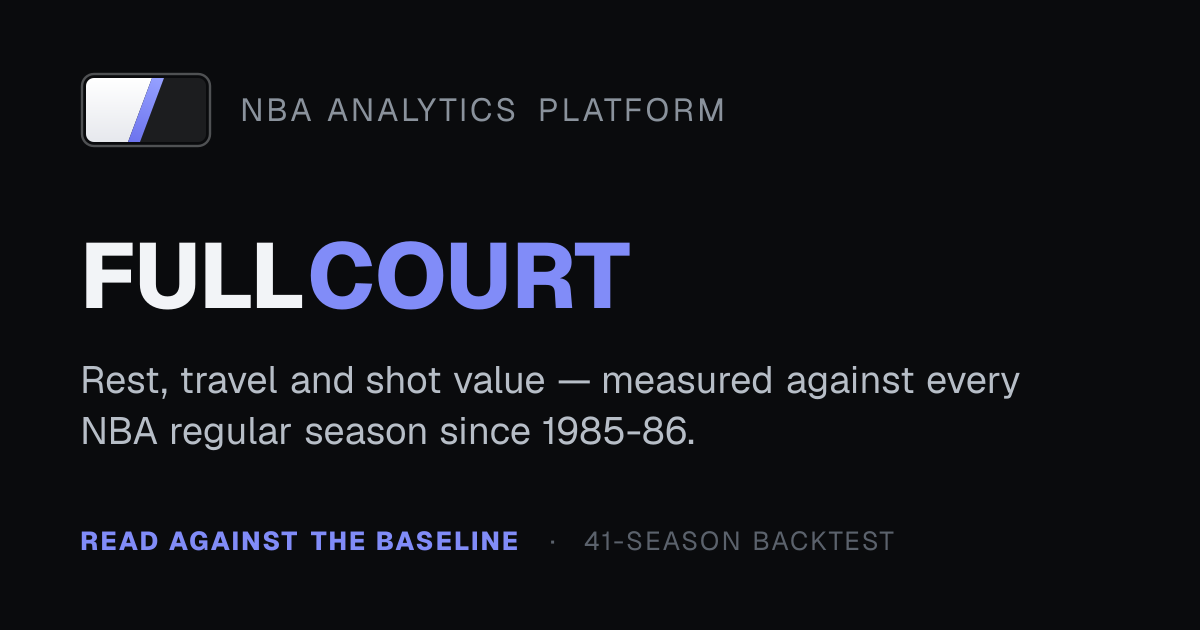
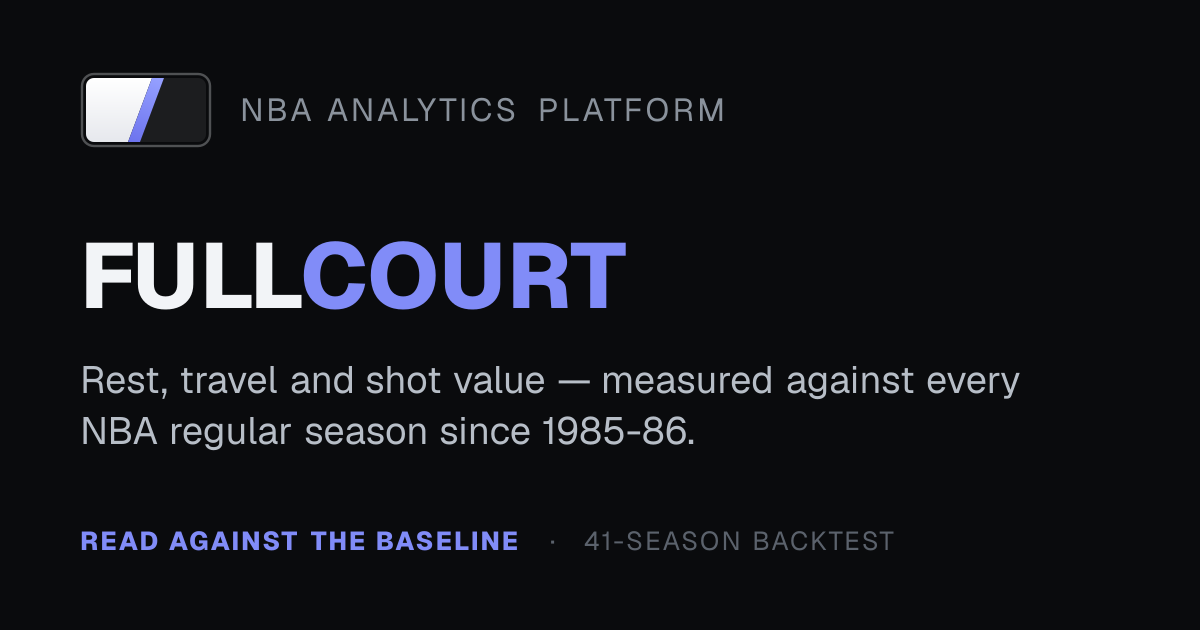
feat: the wordmark is optically kerned from one table, all three lockups (#64)
Measured in Geist 700 with the font's own GPOS kerns applied, the FULLCOURT
lockup's inter-letter ink area spread 2.7:1 — and the widest gap was L·C,
exactly the FULL|COURT color seam, so the compound read as two words
touching. Michael adopted the bench's Recommended preset (2026-08-22
exploration): FU −0.035, UL +0.020, LL −0.040, LC −0.045, CO −0.010,
OU +0.015, UR +0.020, RT −0.010 em → spread 2.1:1, width −1.5%, no pair
under the 0.02 em ink floor. C·O is deliberately shy of its ideal: the
variable Geist at 700 has longer C terminals than the static 800 TTF.

src/lib/brand/wordmark-kern.ts is the one table — the same one-source rule
as court-mark-geometry.ts — consumed by the nav wordmark, the front door's
naming h2, and the OG card as per-letter margins on top of each site's base
tracking. wordmark-kern.test.ts pins the preset and fails any renderer that
types the word as a literal again. docs/social-preview.png re-rendered from
the new OG route, RGBA→RGB flatten kept.

Satori may not apply Geist's own GPOS kerns like a browser — the deployed
OG card gets one manual eyeball after this ships (local render verified).

Changed region(s): [[0.2467, 0.3619, 0.5242, 0.4825], [0.1233, 0.3921, 0.185, 0.4825]]

diff --git a/src/lib/brand/__tests__/wordmark-kern.test.ts b/src/lib/brand/__tests__/wordmark-kern.test.ts
@@ -1,0 +1,64 @@
+import { readFileSync } from "node:fs";
+import { join } from "node:path";
+
+import { describe, expect, it } from "vitest";
+
+import { WORDMARK, WORDMARK_KERN, WORDMARK_SPLIT, wordmarkLetters } from "../wordmark-kern";
+
+describe("the kern table itself", () => {
+  it("spells FULLCOURT, split at the color seam", () => {
+    const letters = wordmarkLetters();
+    expect(letters.map((l) => l.char).join("")).toBe("FULLCOURT");
+    expect(letters.filter((l) => !l.accent).map((l) => l.char).join("")).toBe("FULL");
+    expect(letters.filter((l) => l.accent).map((l) => l.char).join("")).toBe("COURT");
+    expect(WORDMARK_SPLIT).toBe(4);
+  });
+
+  it("keys every pair to its actual neighbours, in word order", () => {
+    // A reordered or mistyped entry would silently kern the wrong seam.
+    expect(WORDMARK_KERN).toHaveLength(WORDMARK.length - 1);
+    WORDMARK_KERN.forEach((k, i) => {
+      expect(k.pair, `entry ${i}`).toBe(WORDMARK.slice(i, i + 2));
+    });
+  });
+
+  it("pins the ratified 2026-08-24 preset", () => {
+    // Hand-tuned against measured ink areas (2.7:1 spread → 2.1:1); a change here is a
+    // brand decision, not a refactor. C·O is deliberately −0.010, not tighter — the
+    // variable Geist at 700 has longer C terminals than the static 800 TTF, and −0.020
+    // drops the true ink clearance to 0.0135 em.
+    expect(WORDMARK_KERN.map((k) => k.em)).toEqual([
+      -0.035, 0.02, -0.04, -0.045, -0.01, 0.015, 0.02, -0.01,
+    ]);
+  });
+
+  it("gives the F no kern and every later letter its preceding pair's", () => {
+    const letters = wordmarkLetters();
+    expect(letters[0].kernEm).toBe(0);
+    letters.slice(1).forEach((l, i) => expect(l.kernEm).toBe(WORDMARK_KERN[i].em));
+  });
+});
+
+describe("every renderer consumes the one table", () => {
+  // The three lockups drifted apart once before the mark got a single geometry source;
+  // the wordmark gets the same treatment. A renderer that types the word as a literal
+  // has stopped reading the kerns — these fail before the drift ships.
+  const renderers = [
+    "src/components/nav-bar.tsx",
+    "src/components/about-content.tsx",
+    "src/app/opengraph-image.tsx",
+  ];
+
+  for (const file of renderers) {
+    it(`${file} imports the table and hardcodes no lockup text`, () => {
+      const src = readFileSync(join(process.cwd(), file), "utf8");
+      expect(src).toContain('from "@/lib/brand/wordmark-kern"');
+      // FULLCOURT must not appear as renderable text — neither whole nor as the split
+      // halves the old markup used (>FULL<, >COURT<). Prose mentions in comments are
+      // fine; a JSX text node is not.
+      expect(src).not.toMatch(/>FULL</);
+      expect(src).not.toMatch(/>COURT</);
+      expect(src).not.toMatch(/>FULLCOURT</);
+    });
+  }
+});

diff --git a/src/lib/brand/wordmark-kern.ts b/src/lib/brand/wordmark-kern.ts
@@ -1,0 +1,60 @@
+/**
+ * The FULLCOURT lockup's optical kerning (ratified 2026-08-24). One table for every
+ * renderer — the nav wordmark, the front door's naming h2, and the OG card — the same
+ * one-geometry-source rule as `court-mark-geometry.ts` beside it.
+ *
+ * Why it exists: measured live in Geist 700 with the font's own GPOS kerns applied, the
+ * cap-band area between letters spread 2.7:1 — and the widest gap in the word was L·C,
+ * exactly the FULL|COURT color seam, so the lockup read as two words touching. This
+ * preset pulls the outliers in (spread → 2.1:1, width −1.5%, no pair under the 0.02 em
+ * ink floor) without chasing equal-area, which is provably unreachable: leveling L·C to
+ * the mean needs −0.092 em and the closest ink sits 0.070 em apart.
+ *
+ * The values are offsets ON TOP of the font's own kerning and each site's base tracking,
+ * applied as a margin before the pair's second letter — margins do not fight the
+ * container's `letter-spacing` and add no trailing space after the T.
+ *
+ * C·O is deliberately shy of its measured ideal: the variable Geist at 700 has longer C
+ * terminals than the static 800 TTF, and at −0.020 the true 2D ink clearance drops to
+ * 0.0135 em. It gets −0.010. Do not "fix" it to match its neighbours.
+ *
+ * Exploration record: the 2026-08-22 kerning bench artifact (see the design docs); this
+ * sits inside the wordmark's sanctioned exemption from the type scale
+ * (`terminal-styles.ts`), and W4 — single weight, caps, color split — is untouched.
+ */
+
+export const WORDMARK = "FULLCOURT";
+
+/** How many leading letters are the ink half of the W4 split (FULL | COURT). */
+export const WORDMARK_SPLIT = 4;
+
+/**
+ * Em offsets per adjacent pair, in word order. Applied before the pair's SECOND letter.
+ */
+export const WORDMARK_KERN = [
+  { pair: "FU", em: -0.035 },
+  { pair: "UL", em: 0.02 },
+  { pair: "LL", em: -0.04 },
+  { pair: "LC", em: -0.045 },
+  { pair: "CO", em: -0.01 },
+  { pair: "OU", em: 0.015 },
+  { pair: "UR", em: 0.02 },
+  { pair: "RT", em: -0.01 },
+] as const;
+
+export interface WordmarkLetter {
+  char: string;
+  /** Em offset to apply as a margin BEFORE this letter. 0 for the F. */
+  kernEm: number;
+  /** True for the COURT half of the split — the letters that take the accent color. */
+  accent: boolean;
+}
+
+/** The word as renderable letters, kern and color half attached. */
+export function wordmarkLetters(): WordmarkLetter[] {
+  return Array.from(WORDMARK, (char, i) => ({
+    char,
+    kernEm: i === 0 ? 0 : WORDMARK_KERN[i - 1].em,
+    accent: i >= WORDMARK_SPLIT,
+  }));
+}

diff --git a/src/app/opengraph-image.tsx b/src/app/opengraph-image.tsx
@@ -8,6 +8,7 @@ import {
   MARK_COLORS,
   MARK_CUTS,
 } from "@/lib/brand/court-mark-geometry";
+import { wordmarkLetters } from "@/lib/brand/wordmark-kern";
 import { NBA_SEASONS } from "@/lib/nba-season";
 
 export const alt = "FullCourt — NBA analytics: rest, fatigue, and shot value";
@@ -70,10 +71,22 @@ export default async function OpengraphImage() {
         </div>
 
         <div style={{ display: "flex", flexDirection: "column", gap: 18 }}>
-          {/* The W4 lockup (2026-08-19): all caps, COURT in the brand indigo. */}
+          {/* The W4 lockup (2026-08-19): all caps, COURT in the brand indigo.
+              Per-letter kerns from wordmark-kern.ts (2026-08-24) as px margins on the
+              92px size — satori may not apply Geist's own GPOS kerns the way a browser
+              does, so the deployed card gets one manual eyeball after this ships. */}
           <div style={{ display: "flex", fontSize: 92, fontWeight: 800, letterSpacing: -1 }}>
-            <span style={{ color: "#F2F4F7" }}>FULL</span>
-            <span style={{ color: "#818CF8" }}>COURT</span>
+            {wordmarkLetters().map((l, i) => (
+              <span
+                key={i}
+                style={{
+                  color: l.accent ? "#818CF8" : "#F2F4F7",
+                  marginLeft: l.kernEm === 0 ? 0 : l.kernEm * 92,
+                }}
+              >
+                {l.char}
+              </span>
+            ))}
           </div>
           <div style={{ display: "flex", fontSize: 38, color: "#B7BEC7", maxWidth: 960, lineHeight: 1.35 }}>
             {/* No figure: a static image cannot pin one, and the ~55% this carried predated

diff --git a/src/components/nav-bar.tsx b/src/components/nav-bar.tsx
@@ -5,6 +5,7 @@ import Link from "next/link"
 import { usePathname } from "next/navigation"
 import { useCallback, useEffect, useRef, useState } from "react"
 import { CourtMark } from "@/components/court-mark"
+import { wordmarkLetters } from "@/lib/brand/wordmark-kern"
 import {
   DIRECT_NAV_ITEMS,
   OTHER_NAV_ITEMS,
@@ -260,9 +261,20 @@ export function NavBar() {
               style={{ fontSize: "22px", fontWeight: 700, letterSpacing: "-0.015em", lineHeight: 1 }}
             >
               {/* W4 lockup (2026-08-19): COURT takes the brand indigo — the same
-                  accent the mark's slash spends, one rule for nav and OG alike. */}
-              <span style={{ color: "var(--term-text)" }}>FULL</span>
-              <span style={{ color: "var(--accent)" }}>COURT</span>
+                  accent the mark's slash spends, one rule for nav and OG alike.
+                  Per-letter kerns from wordmark-kern.ts (2026-08-24), as margins so
+                  the container's base tracking stays what it was. */}
+              {wordmarkLetters().map((l, i) => (
+                <span
+                  key={i}
+                  style={{
+                    color: l.accent ? "var(--accent)" : "var(--term-text)",
+                    marginLeft: l.kernEm === 0 ? undefined : `${l.kernEm}em`,
+                  }}
+                >
+                  {l.char}
+                </span>
+              ))}
             </span>
             <span
               aria-hidden

diff --git a/src/components/about-content.tsx b/src/components/about-content.tsx
@@ -2,6 +2,7 @@
 
 import { useEffect, useRef } from "react";
 import Link from "next/link";
+import { wordmarkLetters } from "@/lib/brand/wordmark-kern";
 import { NBA_SEASONS } from "@/lib/nba-season";
 import { signedNumber } from "@/lib/signed-number";
 
@@ -319,7 +320,19 @@ export function AboutContent({ stats }: { stats: AboutStats | null }) {
           className="fc-name font-heading font-bold"
           style={{ fontSize: "clamp(2.6rem,7vw,5.4rem)", lineHeight: 0.95, letterSpacing: "-0.03em" }}
         >
-          FULL<span style={{ color: "#818CF8" }}>COURT</span>
+          {/* Per-letter kerns from wordmark-kern.ts (2026-08-24), margins on top of the
+              base tracking — same table as the nav and OG lockups. */}
+          {wordmarkLetters().map((l, i) => (
+            <span
+              key={i}
+              style={{
+                color: l.accent ? "#818CF8" : undefined,
+                marginLeft: l.kernEm === 0 ? undefined : `${l.kernEm}em`,
+              }}
+            >
+              {l.char}
+            </span>
+          ))}
         </h2>
         <div className="mt-9 flex flex-col">
           {NAME_READINGS.map((part) => (

diff --git a/docs/FRONTEND.md b/docs/FRONTEND.md
@@ -742,7 +742,12 @@ alone. It is style, not bias, and the copy says so.
    beneath it*, so the one element naming the product read as the least important thing in the
    header; it is now sized as a logotype in the same display face as every page title. The
    `aria-label="FullCourt home"` keeps the accessible name one string across the split spans,
-   which is what `e2e/behind-the-data.spec.ts` clicks. The wordmark was inert until 2026-07-30, the
+   which is what `e2e/behind-the-data.spec.ts` clicks. Since 2026-08-24 the letters are
+   individually kerned: `src/lib/brand/wordmark-kern.ts` is the one table (the same
+   one-source rule as the mark's geometry), consumed by all three lockup renderers — nav,
+   the front door's naming h2, and the OG card — as per-letter margins on top of each
+   site's base tracking. `wordmark-kern.test.ts` pins the preset and fails any renderer
+   that types the word as a literal again. The wordmark was inert until 2026-07-30, the
    one piece of chrome people reflexively click. It points at `/`, the front door. That
    inverted on 2026-08-12: while `/` WAS the games board this doc said "home is `GAMES`, not
    `/about`: a logo landing on an explainer breaks the take-me-back-to-the-product contract",

diff --git a/docs/design/BRAND_GRAMMAR.md b/docs/design/BRAND_GRAMMAR.md
@@ -44,6 +44,13 @@ one weight, the halves separated by color — COURT takes the accent — one rul
 and the OG card, which had each been half-doing it differently (dimmed split vs. amber
 split). Running prose still writes "FullCourt"; wordmark and prose are different jobs.
 
+**The lockup is optically kerned (2026-08-24).** Measured in Geist 700 with the font's own
+kerns applied, the inter-letter ink area spread 2.7:1, and the widest gap was L·C — exactly
+the color seam, so the compound read as two words touching. The ratified per-pair preset
+(spread → 2.1:1, width −1.5%) lives in `src/lib/brand/wordmark-kern.ts`, the one table all
+three renderers consume; its test pins the values. Changing a kern is a brand decision,
+Michael's. The exploration record is the 2026-08-22 kerning bench artifact.
+
 **The lockup is plain on purpose — the Second Key was shipped and withdrawn (2026-08-22/23).**
 A one-point treatment rendered the second U — the away key of the full court the word's two
 U's draw — hollow (PR #51), and Michael reversed it the next day in favour of the full-color
